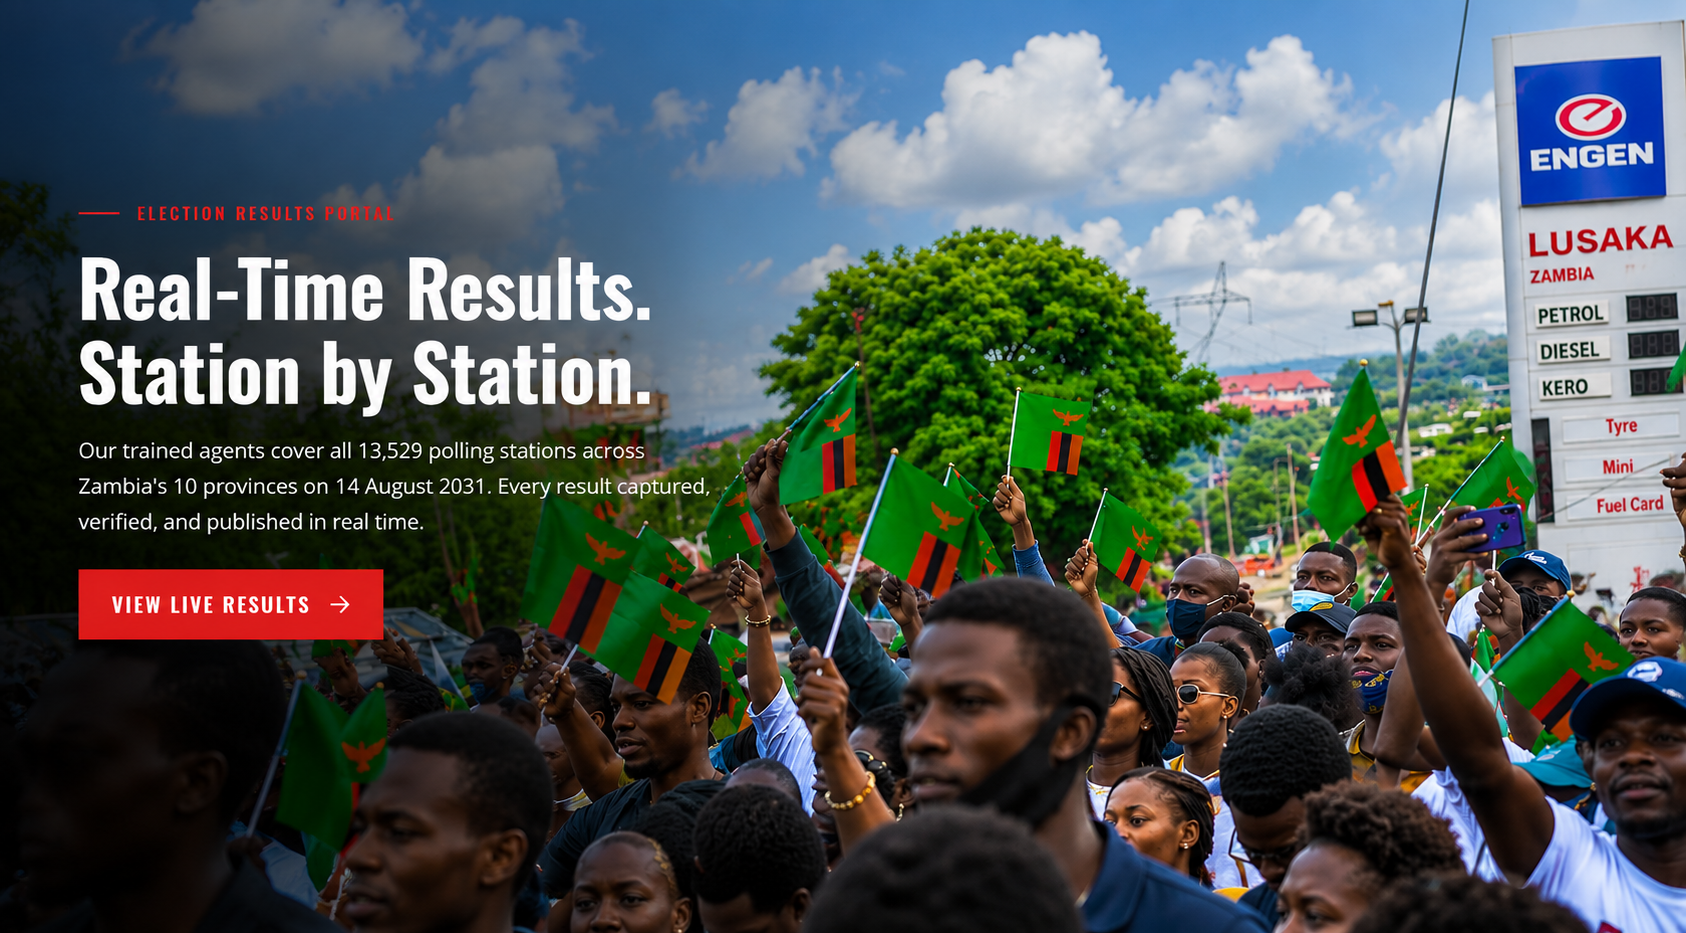
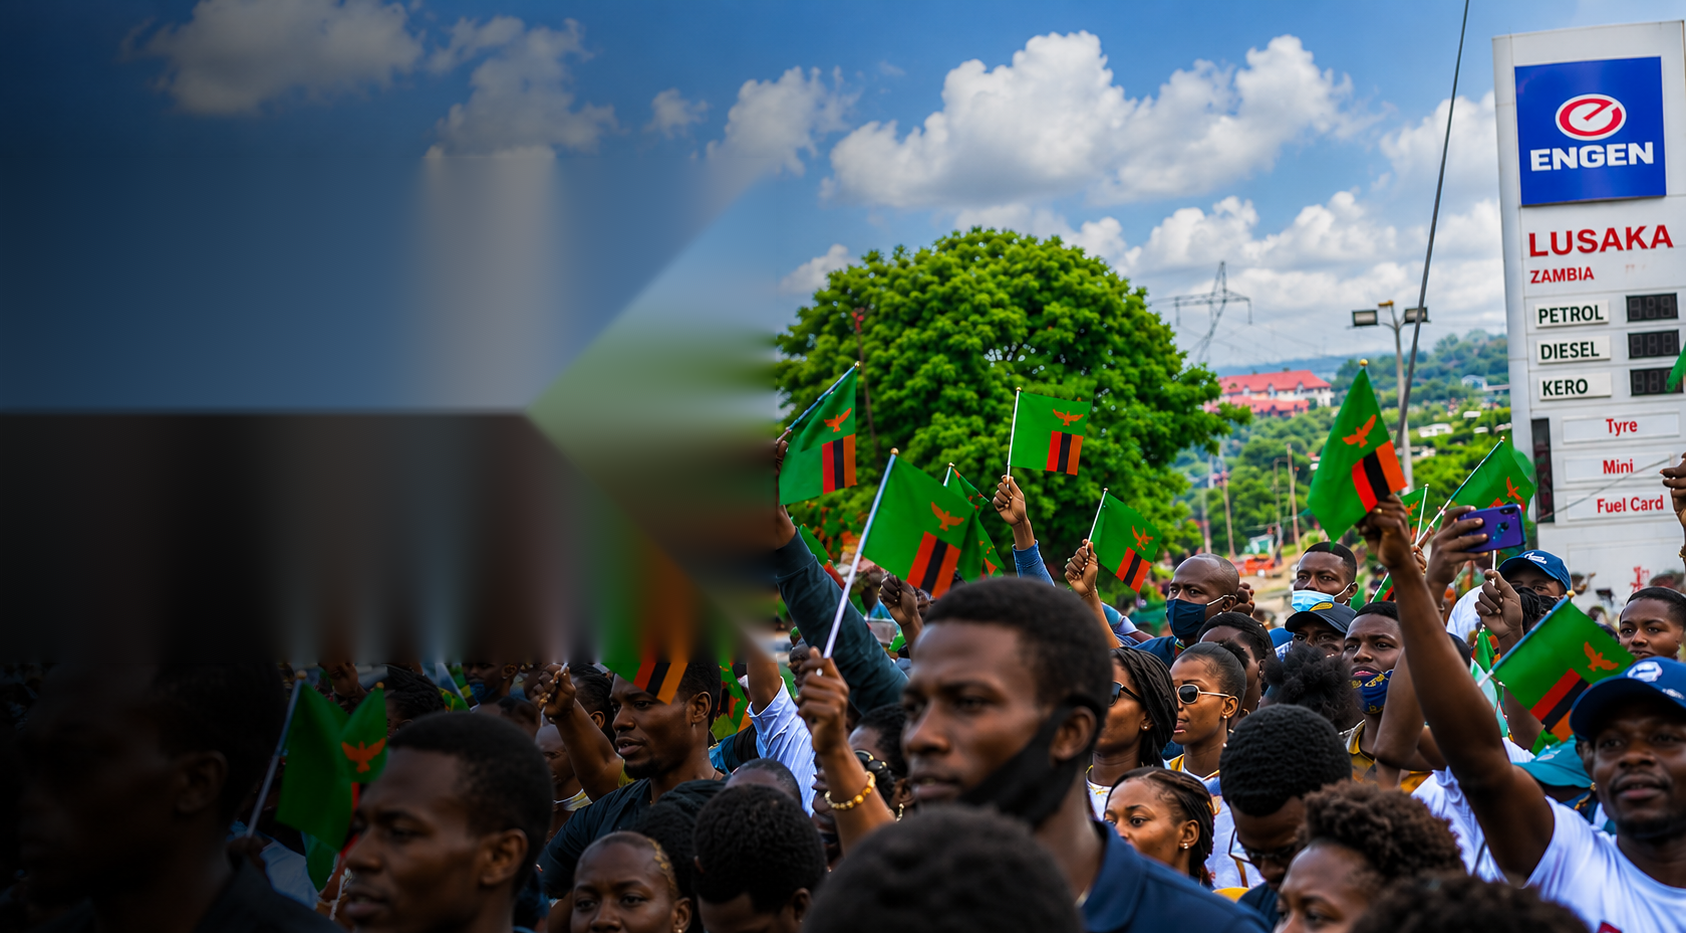
Fix: strip baked-in text from the rally hero image, restore the live HTML overlay
The uploaded rally image was actually a full-page screenshot, so the
heading, description, and button text were baked into the photo's pixels
themselves — not just the HTML overlay. My previous commit removed the
wrong copy (the live HTML text) while leaving the baked-in pixels in
place, which would have shown the text twice.

Fix:
- Used OpenCV inpainting (cv2.inpaint, Telea algorithm) to cleanly remove
  the baked-in 'ELECTION RESULTS PORTAL' label, 'Real-Time Results.
  Station by Station.' heading, description paragraph, and 'VIEW LIVE
  RESULTS' button from the image itself, reconstructing a seamless
  continuation of the sky/gradient background in their place. The crowd,
  flags, and Engen signage on the right are untouched.
- Restored the live HTML heading/description/button in MainHomePage.tsx
  so the text renders dynamically again (as it should), on top of the now
  text-free background image.

Verified with a full 'npm run build' — succeeds cleanly, new image asset
bundles correctly.

Changed region(s): [[0.0, 0.1865, 0.4626, 0.7149], [0.4009, 0.1865, 0.4626, 0.2176]]

diff --git a/frontend/src/app/pages/main/MainHomePage.tsx b/frontend/src/app/pages/main/MainHomePage.tsx
@@ -386,6 +386,19 @@ export default function MainHomePage() {
                 <span className="block w-8 h-0.5" style={{ backgroundColor: '#dc2626' }} />
                 <span className="text-xs tracking-widest uppercase" style={{ color: '#dc2626', fontFamily: 'Oswald, sans-serif', letterSpacing: '0.2em', fontWeight: 600 }}>ELECTION RESULTS PORTAL</span>
               </div>
+              <h2 className="text-white mb-4" style={{ fontFamily: 'Oswald, sans-serif', fontSize: 'clamp(2rem, 4vw, 3.5rem)', fontWeight: 700, lineHeight: 1.1 }}>
+                Real-Time Results.<br />Station by Station.
+              </h2>
+              <p className="mb-8" style={{ color: '#d1d5db', fontSize: '15px', lineHeight: 1.75, maxWidth: '460px' }}>
+                Our trained agents cover all 13,529 polling stations across Zambia's 10 provinces on 14 August 2031. Every result captured, verified, and published in real time.
+              </p>
+              <Link
+                to="/results"
+                className="inline-flex items-center gap-2 px-7 py-4 font-bold text-white transition-all duration-200 hover:opacity-90"
+                style={{ fontFamily: 'Oswald, sans-serif', fontSize: '14px', letterSpacing: '0.1em', backgroundColor: '#dc2626' }}
+              >
+                VIEW LIVE RESULTS <ArrowRight className="w-4 h-4" />
+              </Link>
             </div>
           </div>
         </div>
